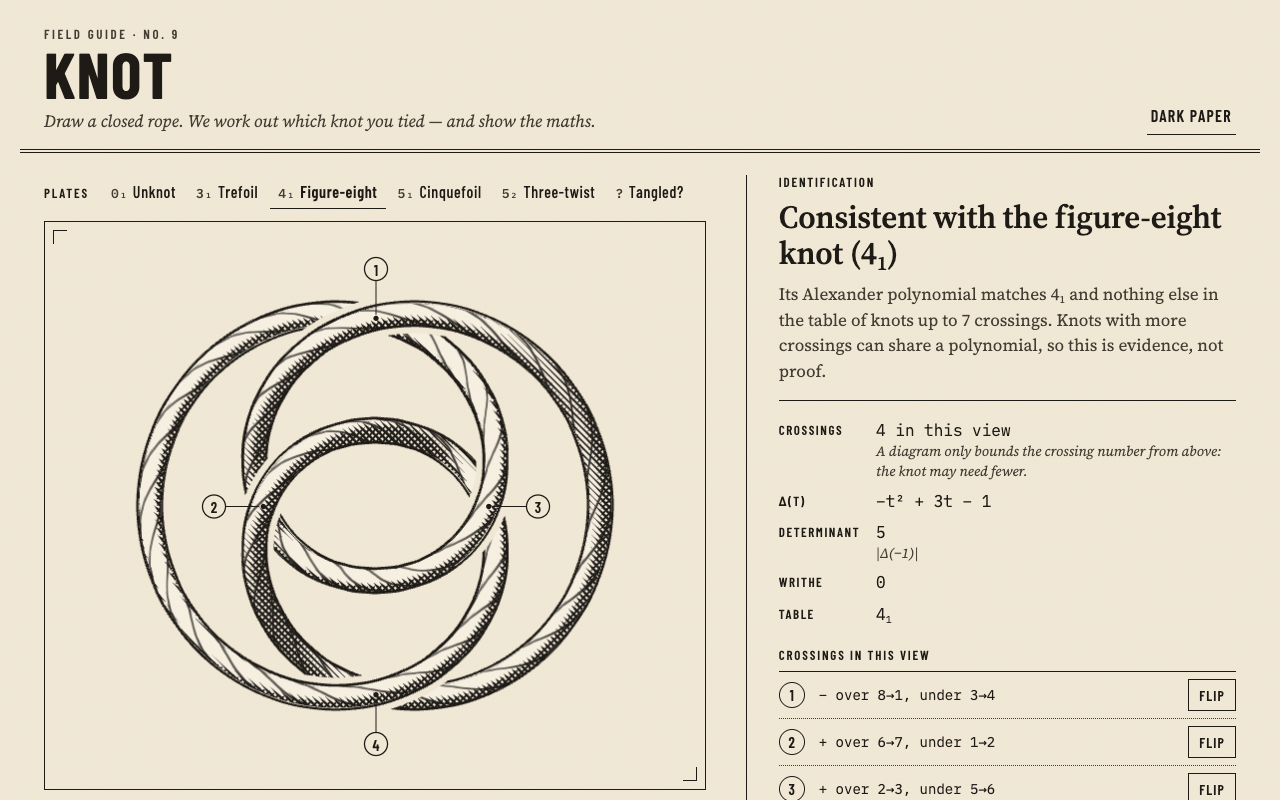
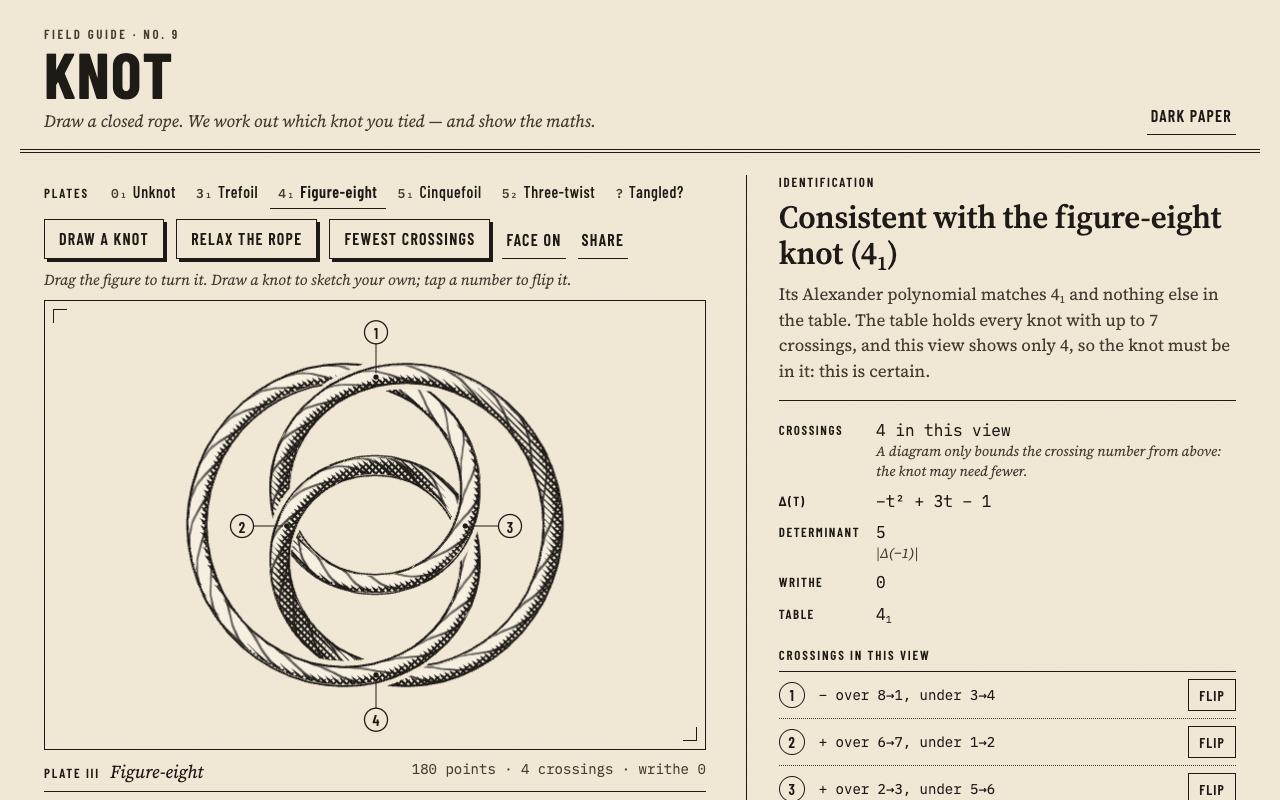
README: flips re-checked, relax scale, when a match is certain, new tests
Also a fresh screenshot with the tools above the figure.

diff --git a/README.md b/README.md
@@ -8,13 +8,15 @@ It looks like a page from a climbing manual: cream paper, an ink-outlined rope w
 
 ## The 30-second experience
 
+The tools sit above the figure, with a one-line how-to, so the first drag on the page turns the rope rather than surprising anyone.
+
 1. **Draw.** Press *Draw a knot* and drag one loop that crosses itself. Let go and the ends join. The crossings are found and set to alternate over and under (the classic default: an alternating drawing is knotted whenever it can be).
-2. **Choose.** Tap a numbered crossing (or its *Flip* button) to swap which strand goes over. The verdict updates at once.
-3. **Turn and relax.** Drag the figure, or use the arrow keys, to turn it: the crossings and their numbers change as you turn, the polynomial never does. *Relax the rope* lets it settle into an open shape without ever passing through itself, then turns to the view with the fewest crossings it can find.
+2. **Choose.** Tap a numbered crossing (or its *Flip* button) to swap which strand goes over. The verdict updates at once. After every flip the page reads the diagram again from the same view and refuses the flip, with a message, unless exactly that one crossing changed.
+3. **Turn and relax.** Drag the figure, or use the arrow keys, to turn it: the crossings and their numbers change as you turn, the polynomial never does. *Relax the rope* lets it settle into an open shape without ever passing through itself, scales it back to the size it started at, then turns to the view with the fewest crossings it can find.
 
 Or pick a plate: the unknot, trefoil (3₁), figure-eight (4₁), cinquefoil (5₁), three-twist knot (5₂), and a "tangled" loop with eleven crossings that is really the unknot.
 
-The panel says what the rope is consistent with, never more: *"Consistent with the figure-eight knot (4₁)"*. When several table knots share the polynomial (the granny and square knots), it lists them all. *Show the working* opens the full calculation: the crossings with their signs, the planar diagram (PD) code, the arcs, the Alexander matrix, the exact determinant, the normalisation, and the table lookup.
+The headline says what the rope is consistent with, never more: *"Consistent with the figure-eight knot (4₁)"*. When several table knots share the polynomial (the granny and square knots), it lists them all. The line under it says how sure that is. A view with at most 7 crossings shows a knot with at most 7 crossings, and the table holds every such knot, so a single match there is certain up to mirror image. Δ = 1 on a view with at most 10 crossings is certainly the unknot, because the smallest other knots with Δ = 1 have 11. Beyond those, a match is evidence, not proof. *Show the working* opens the full calculation: the crossings with their signs, the planar diagram (PD) code, the arcs, the Alexander matrix, the exact determinant, the normalisation, and the table lookup.
 
 ## How it works
 
@@ -22,22 +24,22 @@ Everything that decides anything is plain TypeScript in `src/topology/`, indepen
 
 | Step | File | What it does |
 |---|---|---|
-| Drawing → rope | `lift.ts` | Cleans, closes, resamples and smooths the stroke; finds its self-crossings; lifts the over-strand and lowers the under-strand in a small bump around each crossing. Each bump covers a stretch of rope with no other crossing, so the rope is always valid. Flipping a crossing re-uses the same bump on an existing 3D rope. |
-| Crossings | `crossings.ts` | Projects the rope onto the view plane, finds every self-intersection of its shadow, reads over/under from depth, numbers crossings in the order the rope reaches them, computes each sign, and labels the 2n edges for the PD code (KnotTheory / Knot Atlas convention). Exactly degenerate views are nudged by a fraction of a milliradian and reported. |
+| Drawing → rope | `lift.ts` | Cleans, closes, resamples and smooths the stroke; finds its self-crossings; lifts the over-strand and lowers the under-strand in a small bump around each crossing. Each bump covers a stretch of rope with no other crossing, so the rope is always valid. Flipping a crossing re-uses the same bump on an existing 3D rope; a segment that crosses a bump's edge and carries another crossing is cut at the edge first (otherwise that crossing's depth would be dragged along), and the result is re-read and refused unless exactly one crossing changed sign. |
+| Crossings | `crossings.ts` | Projects the rope onto the view plane, finds every self-intersection of its shadow, reads over/under from depth, numbers crossings in the order the rope reaches them, computes each sign, and labels the 2n edges for the PD code (KnotTheory / Knot Atlas convention). This part is floating point, with safeguards: tolerances, and exactly degenerate views are nudged by a fraction of a milliradian and reported. |
 | Alexander polynomial | `alexander.ts`, `poly.ts` | Builds the n × n Alexander matrix from the PD code (1 − t for the over-arc, t and −1 for the under-arcs on the over-strand's right and left), deletes a row and column, and takes the determinant by fraction-free (Bareiss) elimination over integer polynomials with `BigInt` coefficients. Normalises to lowest power t⁰ and Δ(1) = 1. No floating point touches a coefficient. |
 | Identification | `identify.ts`, `table.ts` | Compares Δ(t) with every knot up to 7 crossings and words the result honestly (see *Honest limitations*). |
-| Relaxation | `relax.ts` | Springs, bending, a weak 1/r² repulsion and a thick-rope contact push. Every point's move is clamped to 0.45 × the current smallest gap between non-neighbouring segments; moving every point less than half that gap along a straight line cannot make the rope pass through itself, so the knot type provably cannot change. At most 600 steps. |
-| Views | `analyse.ts` | The whole pipeline, plus a search over 65 view directions for the fewest crossings (ties go to the view whose crossings are furthest apart). |
+| Relaxation | `relax.ts` | Springs, bending, a weak 1/r² repulsion and a thick-rope contact push. Every point's move is clamped to 0.45 × the current smallest gap between non-neighbouring segments; moving every point less than half that gap along a straight line cannot make the rope pass through itself, so the knot type provably cannot change. At most 600 steps. The rope stretches as it opens out, so the result is scaled back to its starting bounding radius (a similarity, which cannot change the knot); without that, pressing *Relax* again and again grew the rope without limit. |
+| Views | `analyse.ts` | The whole pipeline, plus a search over 65 view directions for the fewest crossings (ties go to the view whose crossings are furthest apart). While the figure is being dragged, views with more than 40 crossings skip the polynomial (it is the same from every view) and it is worked out again on release. |
 | Share links | `share.ts` | The rope's points (on a 0.01 grid, delta-encoded varints, base64url) and the view rotation in the URL fragment. The page snaps rope and view to that grid before analysing, so a link reproduces exactly what the sender saw. Snapping moves each point less than 0.009 units and is only done when the rope's smallest gap is more than twice that. |
 
-The page (`src/app/`) draws the rope with three.js: a `TubeGeometry` along a closed Catmull-Rom curve through the points, a custom shader for toon shading, screen-space cross-hatching and the rope's lay, and two back-face hulls — an ink outline, and a paper-coloured halo that breaks the strand passing underneath, like a printed knot diagram. The camera is orthographic, so the picture is exactly the projection that is analysed. Without WebGL 2 (or with `?flat` in the URL) it falls back to a flat SVG drawing and the maths is unchanged.
+The page (`src/app/`) draws the rope with three.js: a `TubeGeometry` along a closed Catmull-Rom curve, a custom shader for toon shading, screen-space cross-hatching and the rope's lay, and two back-face hulls — an ink outline, and a paper-coloured halo that breaks the strand passing underneath, like a printed knot diagram. The curve runs through extra points laid along each straight segment of the analysed polygon, so the drawn rope follows that polygon (only its corners are rounded) and the crossing dots sit on the drawn crossings, even for a sparse 8-point rope from a link. The halo shrinks where the rope tilts towards the viewer, so a steep strand doesn't cut gaps into itself. The camera is orthographic, so the still picture is exactly the projection that is analysed. The gentle idle sway (±5°, off under reduced motion and after the first drag) is decoration only: the analysis always uses the still view, and the sway pauses while *Show the working* is open. Crossing labels are placed on clear paper with leader lines; crowded crossings choose first and no two labels overlap. Without WebGL 2 (or with `?flat` in the URL) it falls back to a flat SVG drawing and the maths is unchanged.
 
 ### The knot table
 
 Every prime knot with up to 7 crossings (0₁, 3₁, 4₁, 5₁, 5₂, 6₁–6₃, 7₁–7₇), plus the composite granny knot, square knot and 3₁ # 4₁ (Δ of a connected sum is the product). Mirror images are not listed separately because the Alexander polynomial cannot tell them apart.
 
 - Source: D. Rolfsen, *Knots and Links* (1976), Appendix C, as reproduced in the [Knot Atlas](https://katlas.org/wiki/The_Rolfsen_Knot_Table), checked 2026-09-26.
-- Cross-reference: C. Livingston and A. H. Moore, *KnotInfo: Table of Knot Invariants*, knotinfo.org, September 26, 2026 (the citation form KnotInfo asks for).
+- See also: C. Livingston and A. H. Moore, *KnotInfo: Table of Knot Invariants*, knotinfo.org, September 26, 2026 (the citation form KnotInfo asks for). KnotInfo is a standard reference; its data was not consulted for these values.
 - The polynomials are mathematical facts, typed in by hand. Neither the Knot Atlas nor KnotInfo publishes a data licence, so nothing was copied into the site beyond those facts, and both are cited. `tests/unit/alexander.test.ts` quotes the Knot Atlas PD codes (with attribution) and recomputes every table polynomial from them with this project's own code.
 
 ## Why TypeScript
@@ -55,8 +57,8 @@ npm test           # typecheck + unit tests + build + headless-Chrome end-to-end
 npm run serve      # serve dist/ locally with the production headers (random free port)
 ```
 
-- **Unit tests** (`node:test`, `tests/unit/`): crossing extraction on constructed curves (including degenerate and self-intersecting ones), PD codes for every preset, Alexander polynomials against known values with normalisation, every table row recomputed from Knot Atlas PD codes, mirror images, Bareiss vs cofactor expansion, identification of every preset (the tangled one as the unknot), granny/square listed together, 9₁ reported as not in the table, relaxation never changing Δ and never moving a point more than half the gap, drawing and flipping, and share-link round trips plus hostile links.
-- **End-to-end** (`tests/e2e/`, headless Chrome over the DevTools protocol): no console errors, a WebGL 2 context that actually draws ink, every plate identified, drawing a trefoil with the mouse, flipping a crossing from the figure and from the list, relaxing, sharing and reopening the link, turning with the keyboard, hostile links (200 000 characters, garbage, a valid rope with 164 crossings) refused or bounded, a true 400 px phone width with no sideways scroll, reduced motion, the flat fallback, the notices file and the cache headers.
+- **Unit tests** (`node:test`, `tests/unit/`): crossing extraction on constructed curves (including degenerate and self-intersecting ones), PD codes for every preset, Alexander polynomials against known values with normalisation, every table row recomputed from Knot Atlas PD codes, mirror images, Bareiss vs cofactor expansion, identification of every preset (the tangled one as the unknot), granny/square listed together, 9₁ reported as not in the table, relaxation never changing Δ and never moving a point more than half the gap, twelve relaxes in a row keeping the rope's size (and its link), drawing, flipping (every flip of every plate from four views, relaxed or not, changes exactly one crossing; a result that changes more is refused), the wording rules for certain and uncertain matches, the drawn tube following a sparse polygon, and share-link round trips plus hostile links.
+- **End-to-end** (`tests/e2e/`, headless Chrome over the DevTools protocol): no console errors, a WebGL 2 context that actually draws ink, every plate identified, drawing a trefoil with the mouse, flipping a crossing from the figure and from the list, relaxing, sharing and reopening the link, turning with the keyboard, hostile links (200 000 characters, garbage, a valid rope with 164 crossings) refused or bounded with the reason visibly on screen, flipping each crossing of a turned cinquefoil changing only that crossing, twelve relaxes then Share, dragging a 99-crossing rope with the polynomial deferred until release, the tools and figure above the fold at 1280×800, the sway pausing while the working is open, "1 crossing" in the singular, no overlapping labels on a dense drawing (before and after turning it), crossing dots on the drawn rope for a sparse link, a true 400 px phone width with no sideways scroll, reduced motion, the flat fallback, the notices file and the cache headers.
 
 ## Running on Cloudflare (free)
 
@@ -72,12 +74,14 @@ That is the plain command for anyone deploying their own copy. The owner deploys
 
 ## Honest limitations
 
-- **"Consistent with", not "is".** The Alexander polynomial cannot tell a knot from its mirror image, and knots with more crossings can share a polynomial with a small one (for example, some knots with 11 or more crossings have Δ = 1, like the unknot). The page says so every time. The one certain case is a diagram with fewer than three crossings, which is always the unknot.
+- **"Consistent with", not "is".** The Alexander polynomial cannot tell a knot from its mirror image, and knots with more crossings can share a polynomial with a small one (for example, some knots with 11 or more crossings have Δ = 1, like the unknot). The headline always says "consistent with". The detail line says "certain" only where the diagram settles it: fewer than three crossings (always the unknot), a single table match on a view with at most 7 crossings (certain up to mirror image), and Δ = 1 on a view with at most 10 crossings. Those rest on the standard knot tables being complete up to those sizes.
+- **Only the polynomial is exact.** The Alexander polynomial is computed with exact integer arithmetic. Finding the crossings is floating-point geometry with safeguards (tolerances, and a tiny turn of the view when a corner lands exactly on another strand's shadow).
 - **A diagram's crossing count is an upper bound.** The "fewest crossings" search tries 65 directions; it is not guaranteed to find the knot's true crossing number.
-- **Relaxation does not always untangle.** It is guaranteed never to change the knot, but it can settle in a shape that still has extra crossings: the tangled plate goes from 11 crossings to 7, not to 0. The polynomial is what reveals it is the unknot. The rope also stretches somewhat (up to about 40%) as it opens out; springs resist stretching but do not forbid it.
+- **Relaxation does not always untangle.** It is guaranteed never to change the knot, but it can settle in a shape that still has extra crossings: the tangled plate goes from 11 crossings to 7, not to 0. The polynomial is what reveals it is the unknot. The rope stretches as it opens out (up to about 40%), so the result is scaled back to its starting size; its length after that can drift down a little over many presses, and strands can sit a little closer.
 - **Beyond 7 crossings the table says "not in our table".** Names for bigger knots need a larger table.
 - **Drawing is pointer or touch only.** Keyboard users can load the plates, turn the figure with the arrow keys, flip crossings from the list, relax, and share.
-- **Limits.** Strokes are read up to 6 000 points and resampled to at most 280; a drawing may have up to 30 crossings; a rope has at most 480 points; the polynomial is computed for up to 100 crossings (above that the page says so); a share link is read only up to 8 192 characters.
+- **Limits.** Strokes are read up to 6 000 points and resampled to at most 280; a drawing may have up to 30 crossings; a rope has at most 480 points (a flip that would need more is refused); the polynomial is computed for up to 100 crossings (above that the page says so), and while dragging only up to 40; a share link is read only up to 8 192 characters, and a rope that can't be put in a link says so instead of failing.
+- **Labels on very dense views.** Labels never overlap, but on views with many crossings some sit well away from their crossing on long leader lines. Above 60 crossings they are hidden and the list is used instead.
 - The fonts load from Google Fonts; without them the page falls back to system faces.
 
 ## Next
